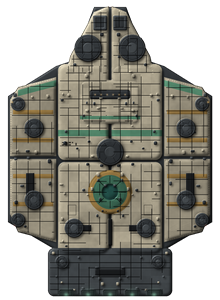
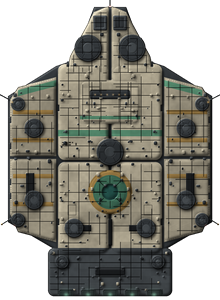
Art pass: notched plate edges, antennae, denser greebling, stronger recess contrast

diff --git a/tools/gen_ships.py b/tools/gen_ships.py
@@ -137,6 +137,12 @@ def tally():
     c.glyphs(-14, 64, n=2, size=0.9, seed=3)
     c.light(22, 41.5, sym=True)
     c.light(0, 4.5, color=(255, 120, 90), r=0.8)
+    c.notch(26, 52, 1.6, 4, sym=True)
+    c.notch(26, 68, 1.6, 4, sym=True)
+    c.notch(14, 40, 1.4, 3, sym=True)
+    c.greebles(4, 48, 15, 76, n=7, sym=True, seed=34, mats=("dark", "slate2", "slate"), smin=0.8, smax=2.0)
+    c.antenna(4, 12, 6, 18, sym=True)
+    c.antenna(22, 82, 5, 175, width=0.6, sym=True, tip=False)
     h.slot("WS 001", "ENERGY", "SMALL", "TURRET", 0, 19, 0, 240)
     h.slot("WS 002", "MISSILE", "SMALL", "HARDPOINT", 0, 37, 0, 10)
     h.slot("WS 003", "ENERGY", "SMALL", "TURRET", 22, 61, -30, 210, mirror_id="WS 004")
@@ -182,6 +188,15 @@ def assessor():
     c.glyphs(-26, 90, n=3, size=1.1, seed=5)
     c.light(30, 11, sym=True)
     c.light(26, 121, color=(255, 120, 90), sym=True)
+    for yy in (68, 86, 104):
+        c.notch(45, yy, 1.6, 3.5, sym=True)
+    c.notch(28, 74, 1.6, 5, sym=True)
+    c.notch(32, 21, 1.6, 6, sym=True)
+    c.greebles(5, 60, 26, 84, n=8, sym=True, seed=44, mats=("dark", "slate2", "slate"), smin=0.8, smax=2.0)
+    c.greebles(5, 90, 26, 120, n=8, sym=True, seed=45, mats=("dark", "slate2", "slate"), smin=0.8, smax=2.0)
+    c.greebles(4, 122, 20, 146, n=6, sym=True, seed=46, mats=("dark", "slate2", "slate"), smin=0.8, smax=2.0)
+    c.antenna(31, 13, 9, 35, sym=True)
+    c.antenna(22, 142, 8, 155, width=0.7, sym=True, tip=False)
     h.slot("WS 001", "ENERGY", "MEDIUM", "TURRET", 0, 46, 0, 260)
     h.slot("WS 002", "BALLISTIC", "MEDIUM", "TURRET", 16, 72, -10, 230, mirror_id="WS 003")
     h.slot("WS 004", "MISSILE", "SMALL", "HARDPOINT", 21, 13, 0, 10, mirror_id="WS 005")
@@ -229,6 +244,16 @@ def magistrate():
     c.light(54, 76, sym=True)
     c.light(66, 150, color=(255, 120, 90), sym=True)
     c.light(0, 5, color=(255, 120, 90), r=0.8)
+    for yy in (108, 134):
+        c.notch(70, yy, 2.0, 5, sym=True)
+    c.notch(54, 95, 2.0, 6, sym=True)
+    c.notch(42, 150, 2.0, 6, sym=True)
+    c.greebles(4, 72, 48, 108, n=12, sym=True, seed=55, mats=("dark", "slate2", "slate"), smin=0.8, smax=2.0)
+    c.greebles(4, 114, 38, 178, n=12, sym=True, seed=56, mats=("dark", "slate2", "slate"), smin=0.8, smax=2.0)
+    c.greebles(6, 180, 30, 204, n=6, sym=True, seed=57, mats=("dark", "slate2", "slate"), smin=0.8, smax=2.0)
+    c.antenna(0, 6, 8, 0)
+    c.antenna(54, 78, 11, 72, sym=True)
+    c.antenna(66, 152, 9, 140, width=0.7, sym=True, tip=False)
     h.slot("WS 001", "ENERGY", "LARGE", "TURRET", 0, 38, 0, 270)
     h.slot("WS 002", "BALLISTIC", "MEDIUM", "TURRET", 36, 80, -15, 220, mirror_id="WS 003")
     h.slot("WS 004", "ENERGY", "MEDIUM", "TURRET", 60, 120, -70, 220, mirror_id="WS 005")
@@ -288,6 +313,18 @@ def exchequer():
     c.light(98, 102, sym=True)
     c.light(96, 226, color=(255, 120, 90), sym=True)
     c.light(0, 6, color=(255, 120, 90), r=0.9)
+    for yy in (120, 146, 182, 196):
+        c.notch(100, yy, 2.4, 6, sym=True)
+    c.notch(42, 64, 2.0, 5, sym=True)
+    c.notch(52, 108, 2.0, 6, sym=True)
+    c.notch(52, 222, 2.0, 6, sym=True)
+    c.greebles(4, 66, 50, 158, n=16, sym=True, seed=66, mats=("dark", "slate2", "slate"), smin=0.8, smax=2.0)
+    c.greebles(4, 164, 50, 250, n=16, sym=True, seed=67, mats=("dark", "slate2", "slate"), smin=0.8, smax=2.0)
+    c.greebles(58, 92, 98, 230, n=14, sym=True, seed=68, mats=("dark", "slate2", "slate"), smin=0.8, smax=2.0)
+    c.greebles(6, 250, 58, 292, n=10, sym=True, seed=69, mats=("dark", "slate2", "slate"), smin=0.8, smax=2.0)
+    c.antenna(100, 100, 14, 62, sym=True)
+    c.antenna(98, 218, 12, 122, width=0.8, sym=True)
+    c.antenna(0, 6, 10, 0)
     h.slot("WS 001", "ENERGY", "LARGE", "TURRET", 22, 48, -5, 260, mirror_id="WS 002")
     h.slot("WS 003", "BALLISTIC", "LARGE", "TURRET", 0, 152, 0, 300)
     h.slot("WS 004", "BALLISTIC", "MEDIUM", "TURRET", 76, 128, -30, 220, mirror_id="WS 005")
@@ -335,6 +372,14 @@ def plenipotentiary():
     for x in (-44, -30, 30, 44):
         c.light(x, 12.5, color=(255, 200, 120), r=0.8, strength=0.9)
     c.light(76, 204, color=(255, 120, 90), sym=True)
+    c.notch(72, 32, 2.0, 8, sym=True)
+    c.notch(44, 136, 2.0, 6, sym=True)
+    c.notch(14, 110, 1.6, 6, sym=True)
+    c.greebles(4, 92, 40, 178, n=12, sym=True, seed=74, mats=("dark", "slate2", "slate"), smin=0.8, smax=2.0)
+    c.greebles(3, 56, 13, 196, n=8, sym=True, seed=75, mats=("dark", "slate2", "slate"), smin=0.8, smax=2.0)
+    c.greebles(26, 158, 72, 200, n=8, sym=True, seed=76, mats=("dark", "slate2", "slate"), smin=0.8, smax=2.0)
+    c.antenna(72, 20, 10, 45, sym=True)
+    c.antenna(77, 205, 10, 150, width=0.7, sym=True)
     h.slot("WS 001", "ENERGY", "LARGE", "HARDPOINT", 0, 28, 0, 5)
     h.slot("WS 002", "ENERGY", "MEDIUM", "TURRET", 40, 32, -10, 250, mirror_id="WS 003")
     h.slot("WS 004", "UNIVERSAL", "MEDIUM", "TURRET", 28, 136, -60, 240, mirror_id="WS 005")

diff --git a/tools/artlib.py b/tools/artlib.py
@@ -278,6 +278,28 @@ class Canvas:
                         a = self.P(px, py)
                         self.ldraw.rectangle([a[0], a[1], a[0] + size * 0.8 * SS, a[1] + size * 0.8 * SS], fill=200)
 
+    def notch(self, x, y, w, h, sym=False):
+        """Cut a rectangular notch down to frame height (breaks up long straight plate edges)."""
+        variants = [False, True] if sym else [False]
+        for mir in variants:
+            xx = -x if mir else x
+            self.part(("rect", xx - w / 2, y - h / 2, xx + w / 2, y + h / 2), z=0.13, bevel=0.4, mat="slate2",
+                      override=True)
+
+    def antenna(self, x, y, length, angle_deg, width=0.8, sym=False, tip=True):
+        """Thin mast protruding from the hull for silhouette detail. angle 0 = forward (up), +90 = image right."""
+        variants = [False, True] if sym else [False]
+        for mir in variants:
+            a = math.radians(-angle_deg if mir else angle_deg)
+            sx = -x if mir else x
+            ex, ey = sx + math.sin(a) * length, y - math.cos(a) * length
+            nx, ny = math.cos(a) * width / 2, math.sin(a) * width / 2
+            pts = [(sx - nx, y - ny), (sx + nx, y + ny), (ex + nx, ey + ny), (ex - nx, ey - ny)]
+            self.part(("poly", pts), z=max(0.2, self._h_at(sx, y) + 0.02), bevel=0.3, mat="slate")
+            self.part(("ellipse", ex, ey, width * 0.9, width * 0.9), z=0.25, bevel=0.3, mat="brass")
+            if tip:
+                self.light(ex, ey, color=(255, 200, 120), r=0.55, strength=0.7)
+
     def socket(self, x, y, r, mount="TURRET", angle=0.0):
         """Weapon mount socket: raised collar with a recessed (not black) well, like vanilla mounts."""
         z = self._h_max(x, y, r + 1.4)
@@ -353,7 +375,7 @@ class Canvas:
         return float(self.height[py, px])
 
     # ---- final render
-    def render(self, grime=0.18, outline=0.55, ao=0.55, spec=0.35, wear_seed=7):
+    def render(self, grime=0.22, outline=0.6, ao=0.62, spec=0.35, wear_seed=7):
         h = self.height.copy()
         lines = np.asarray(self.lines, np.float32) / 255.0
         hil = np.asarray(self.highlights, np.float32) / 255.0
